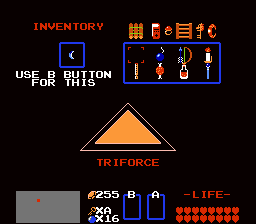
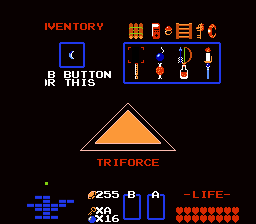
Added map functionality

Changed region(s): [[0.0625, 0.8125, 0.3125, 1.0], [0.0625, 0.3125, 0.1875, 0.4062], [0.125, 0.0938, 0.1875, 0.1562]]

diff --git a/Project1/HUD/IHUD.cs b/Project1/HUD/IHUD.cs
@@ -29,6 +29,8 @@ namespace Project1.HUD
         private Vector2 selectorOffset = new Vector2(384, 141);
         private Vector2 bItemOffset = new Vector2(192,141);
         private Vector2 barItemOffset = new Vector2(372,600);
+        private Vector2 MAPPOS = new Vector2(48, 573);
+        private Vector2 INDICATOROFFSET = new Vector2(135, 648);
 
         private Vector2 SELECTORMULT = new Vector2(72,48);
         private int inventoryPosition;
@@ -53,6 +55,9 @@ namespace Project1.HUD
         private ISprite bowSprite;
         private ISprite boomerangSprite;
 
+        private ISprite mapSprite;
+        private ISprite indicator;
+
         private SpriteEffects heartEffect;
 
         private bool canMove = true;
@@ -62,8 +67,10 @@ namespace Project1.HUD
         private TextSprite _bombCount;
         private TextSprite _keyCount;
 
+        private Camera _camera;
+
         private Collection<IItem> inventory;
-        public IHUD(Link link,Texture2D texture, Texture2D hearts, Texture2D cover,Texture2D atlas, SpriteFont font)
+        public IHUD(Link link,Texture2D texture, Texture2D hearts, Texture2D cover,Texture2D atlas, SpriteFont font, Camera camera)
         {
             _link = link;
 
@@ -77,9 +84,13 @@ namespace Project1.HUD
             bowSprite = new NMoveNAnim(atlas, new Rectangle(176, 47, 16, 16));
             boomerangSprite = new NMoveNAnim(atlas, new Rectangle(64, 47, 16, 16));
 
+            mapSprite = new NMoveNAnim(atlas, new Rectangle(16, 191, 64, 32));
+            indicator = new NMoveNAnim(atlas,new Rectangle(45,182,3,3));
+
             _rupeeCount = new TextSprite("", font, Vector2.Zero);
             _bombCount = new TextSprite("", font, Vector2.Zero);
             _keyCount = new TextSprite("", font, Vector2.Zero);
+            _camera = camera;
         }
         public void Update(GameTime gameTime)
         {
@@ -119,6 +130,10 @@ namespace Project1.HUD
             _bombCount.Draw(spriteBatch, new Vector2(0, height) + BOMBCOUNTPOS, SpriteEffects.None);
             _keyCount.Draw(spriteBatch, new Vector2(0, height) + KEYCOUNTPOS, SpriteEffects.None);
             DrawItems(spriteBatch);
+            if (_link.GetMap())
+            {
+                DrawMap(spriteBatch);
+            }
             selectorSprite.Draw(spriteBatch, DRAWOFFSET + selectorOffset + (SELECTORMULT * selectorPosition), SpriteEffects.None);
         }
         public void slideIn()
@@ -189,7 +204,7 @@ namespace Project1.HUD
         }
         private void DrawItems(SpriteBatch spriteBatch)
         {
-            foreach(IItem item in inventory)
+            foreach (IItem item in inventory)
             {
                 if(item is Boomerang)
                 {
@@ -225,6 +240,11 @@ namespace Project1.HUD
         {
             item.Draw(spriteBatch, DRAWOFFSET + bItemOffset, SpriteEffects.None);
             item.Draw(spriteBatch, DRAWOFFSET + barItemOffset, SpriteEffects.None);
+        }
+        private void DrawMap(SpriteBatch spriteBatch)
+        {
+            mapSprite.Draw(spriteBatch, new Vector2(0, height) + MAPPOS, SpriteEffects.None);
+            indicator.Draw(spriteBatch, new Vector2(0, height) + INDICATOROFFSET + new Vector2(24, 12)*_camera.getCameraPos(), SpriteEffects.None);
         }
     }
 }

diff --git a/Project1/Game1.cs b/Project1/Game1.cs
@@ -103,7 +103,7 @@ public class Game1 : Game
 
 
         createSprites();
-        hud = new IHUD(link, hudTexture,heartsTexture,coverTexture,atlasTexture,font1);
+        
         environmentTile pushBlock = new pushableBlock(new Vector2(100, 100));
 
         _spriteBatch = new SpriteBatch(GraphicsDevice);
@@ -150,6 +150,7 @@ public class Game1 : Game
         base.Initialize();
 
         Camera = new Camera(new Viewport());
+        hud = new IHUD(link, hudTexture, heartsTexture, coverTexture, atlasTexture, font1, Camera);
 
         var commands = new Dictionary<Keys, ICommand>
     {

diff --git a/Project1/Entities/LinkInventory.cs b/Project1/Entities/LinkInventory.cs
@@ -77,6 +77,8 @@ namespace Project1.Entities
         public int GetBombCount() => bombCount;
         public int GetKeyCount() => keyCount;
         public Collection<IItem> GetInventory() => inventory;
+
+        public bool GetMap() => hasMap;
         public bool IsFrozen()
         {
             if (freezeEnemies)
